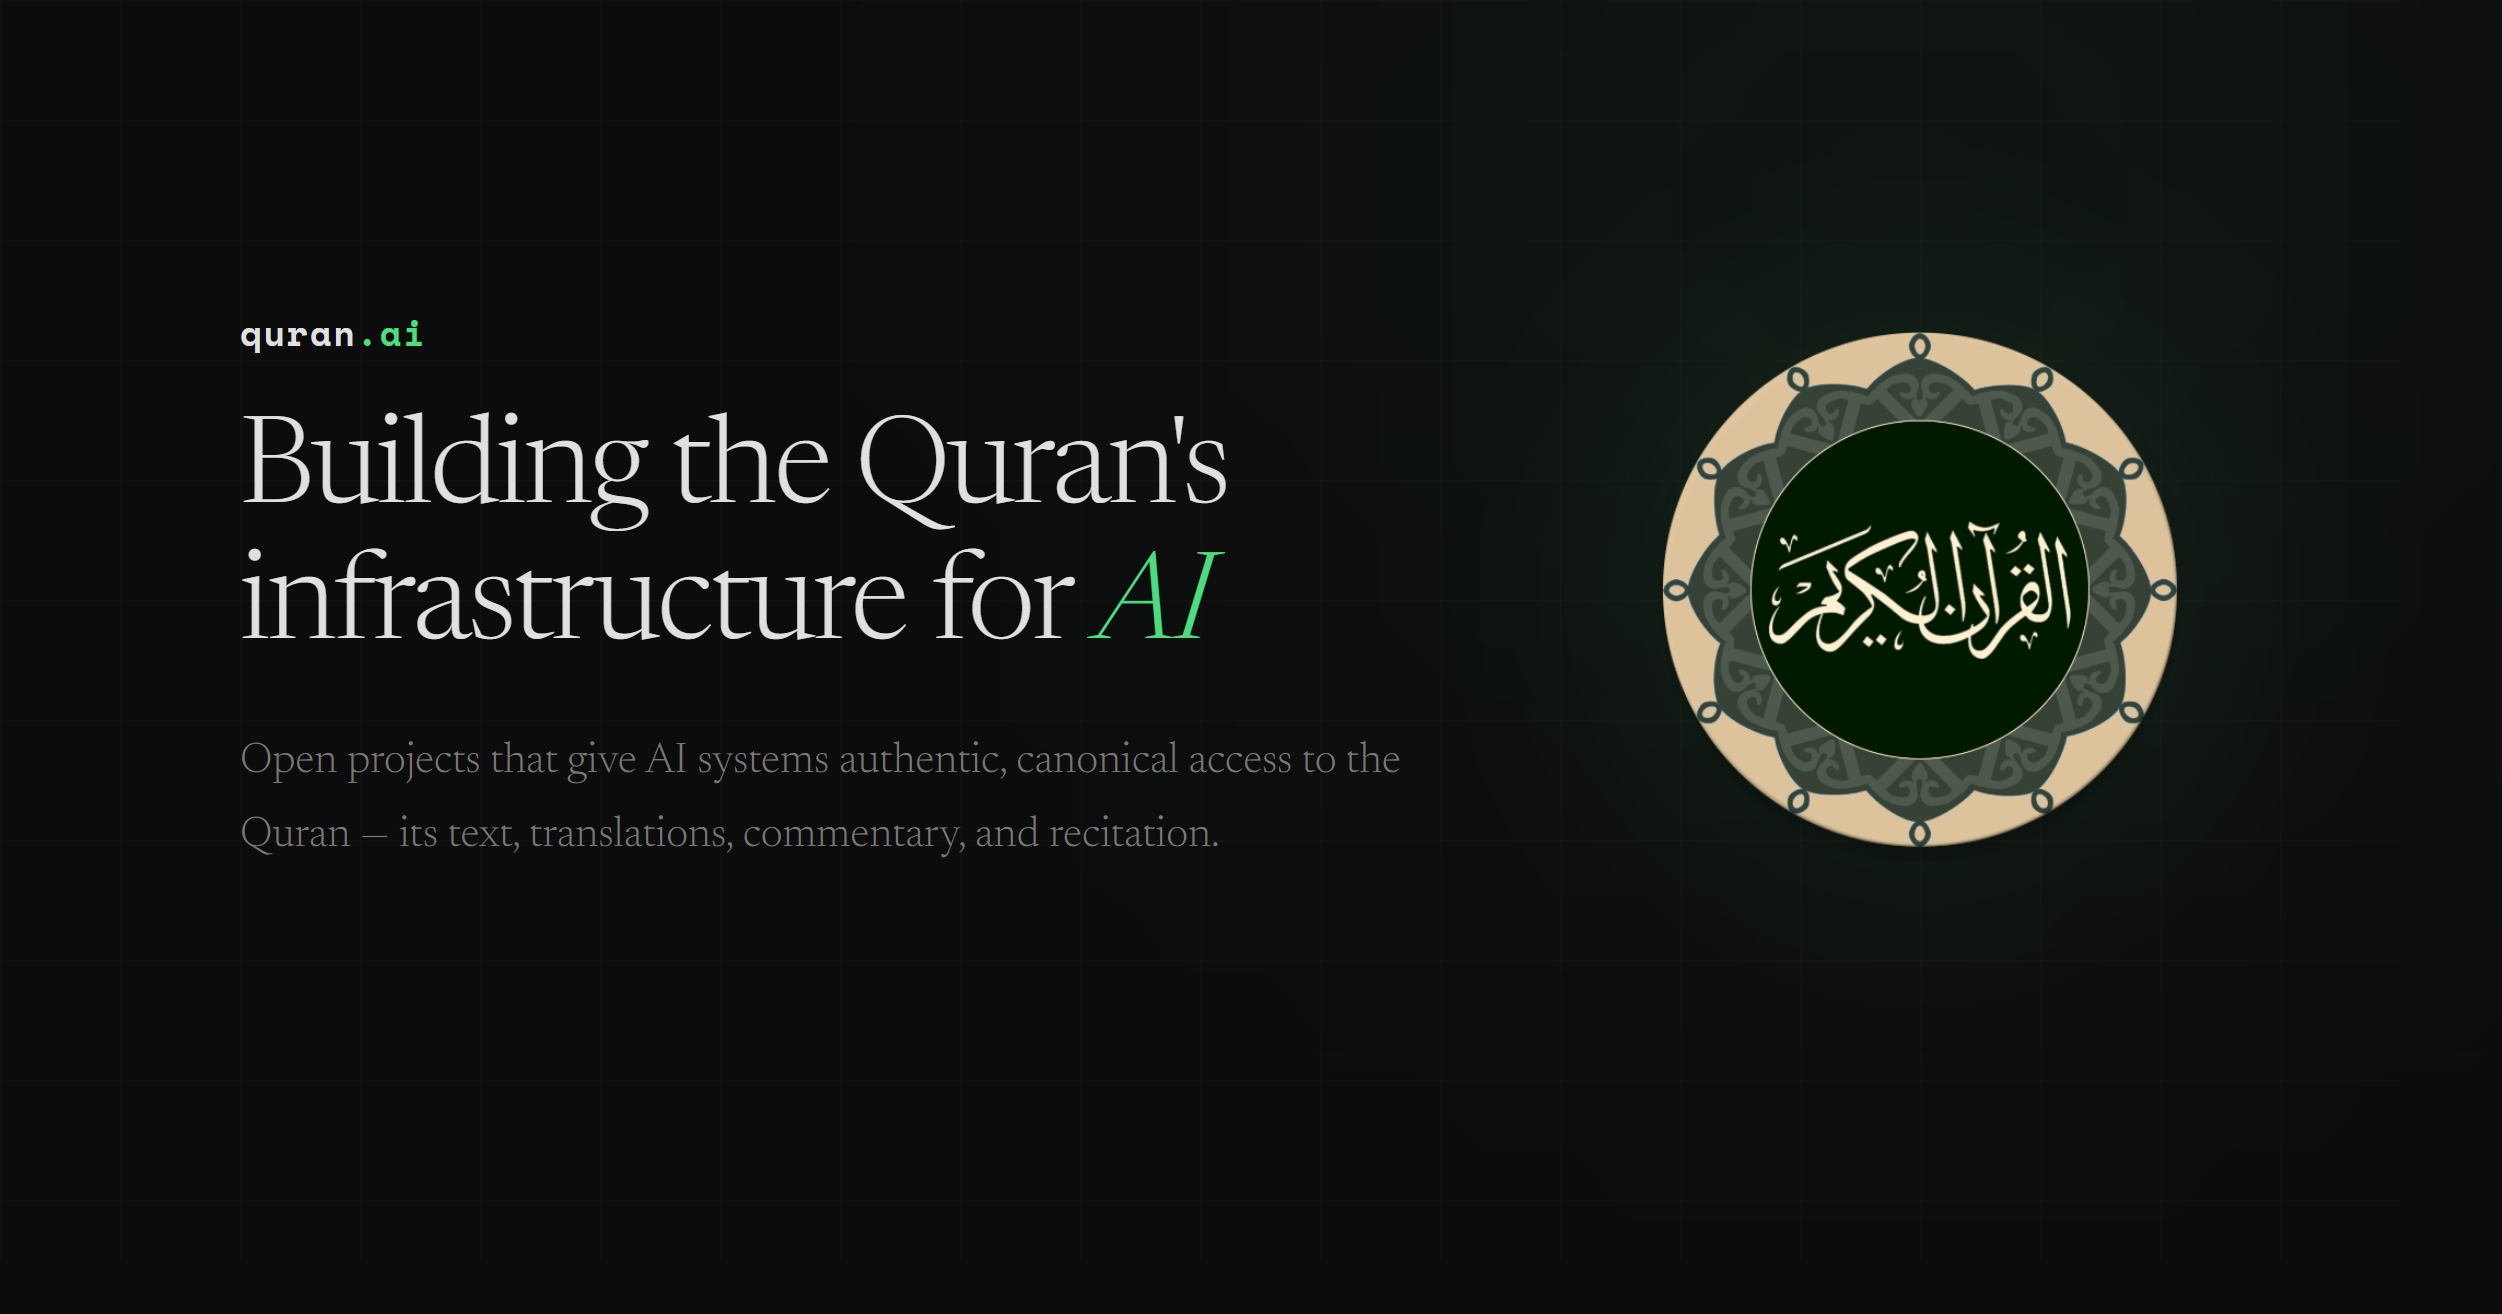
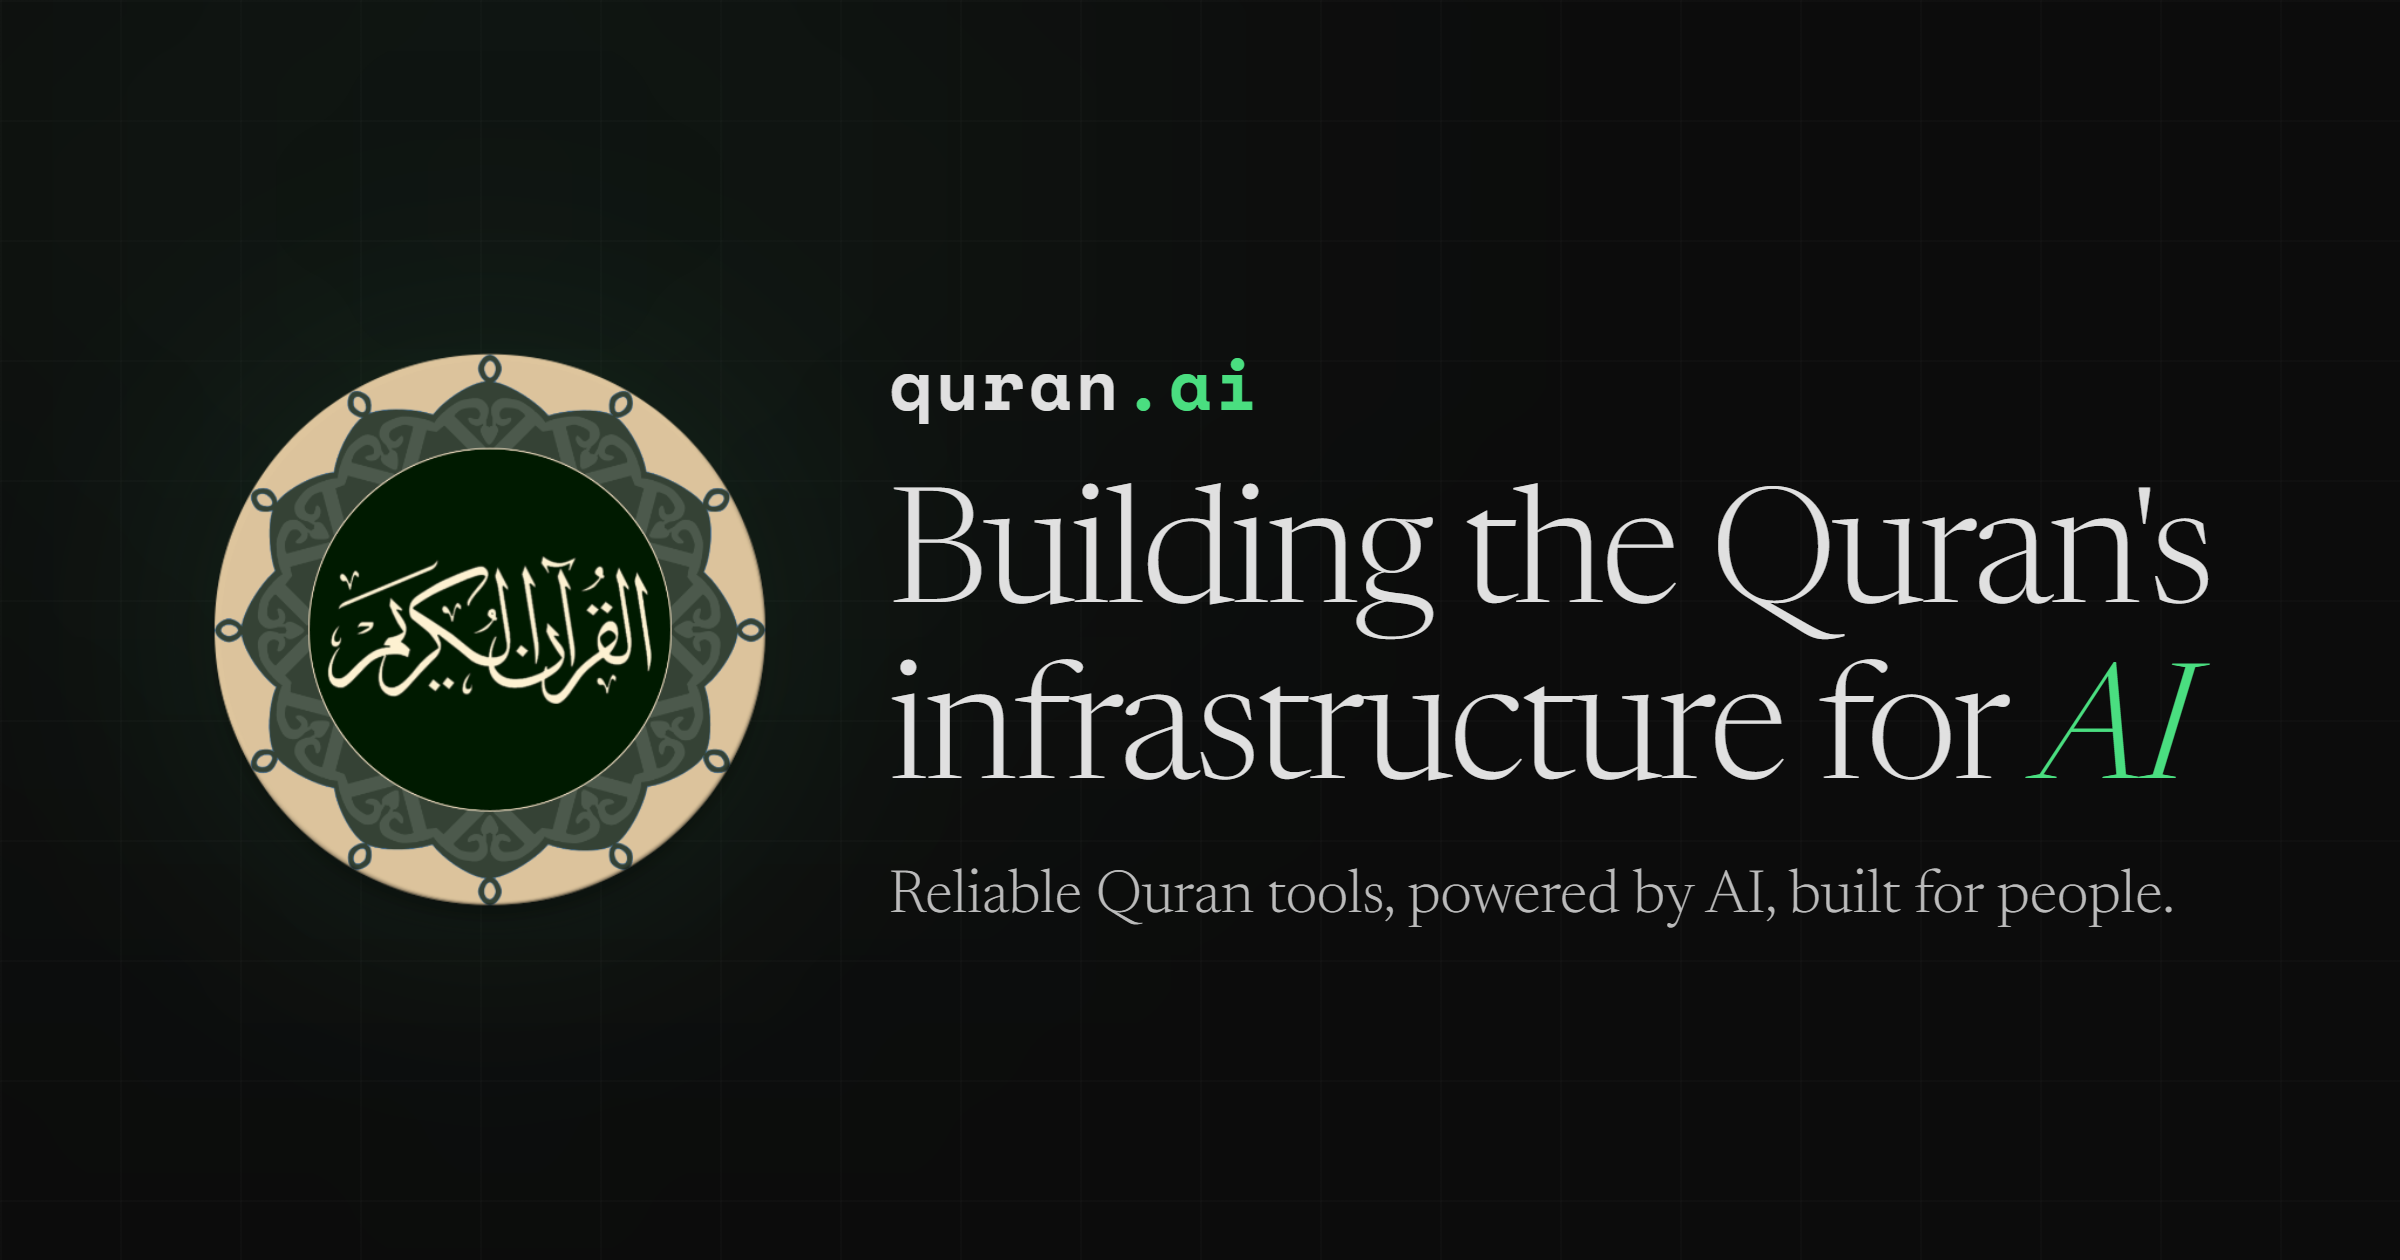
Update OG preview image — bolder layout, cleaner copy

Changed region(s): [[0.0625, 0.2476, 0.9375, 0.7429], [0.4688, 0.681, 0.9062, 0.7429], [0.375, 0.681, 0.4375, 0.7429]]

diff --git a/og-image.html b/og-image.html
@@ -22,14 +22,13 @@
     top: 0;
     left: 0;
     display: flex;
-    flex-direction: row-reverse;
+    flex-direction: row;
     align-items: center;
     justify-content: center;
-    gap: 80px;
-    padding: 0 80px 40px 100px;
+    gap: 50px;
+    padding: 0;
   }
 
-  /* Grid background */
   .card::before {
     content: '';
     position: absolute;
@@ -41,13 +40,12 @@
     pointer-events: none;
   }
 
-  /* Green glow */
   .glow {
     position: absolute;
     width: 600px;
     height: 600px;
     top: -200px;
-    right: -50px;
+    left: -50px;
     background: rgba(74, 222, 128, 0.05);
     border-radius: 50%;
     filter: blur(150px);
@@ -56,8 +54,8 @@
 
   .icon {
     flex-shrink: 0;
-    width: 280px;
-    height: 280px;
+    width: 300px;
+    height: 300px;
     border-radius: 50%;
     object-fit: cover;
     filter: drop-shadow(0 0 60px rgba(74, 222, 128, 0.1));
@@ -68,11 +66,11 @@
     z-index: 1;
     display: flex;
     flex-direction: column;
-    gap: 24px;
+    gap: 20px;
   }
 
   .logo {
-    font-size: 1.1rem;
+    font-size: 2.2rem;
     font-weight: 700;
     letter-spacing: 0.05em;
     color: #e0e0e0;
@@ -82,8 +80,8 @@
   .title {
     font-family: 'Newsreader', serif;
     font-weight: 300;
-    font-size: 3.8rem;
-    line-height: 1.12;
+    font-size: 5rem;
+    line-height: 1.1;
     letter-spacing: -0.02em;
   }
   .title em {
@@ -94,10 +92,9 @@
   .sub {
     font-family: 'Newsreader', serif;
     font-weight: 300;
-    font-size: 1.35rem;
-    color: #777;
-    line-height: 1.7;
-    max-width: 620px;
+    font-size: 1.9rem;
+    color: #bbb;
+    white-space: nowrap;
   }
 </style>
 </head>
@@ -108,7 +105,7 @@
     <div class="text">
       <div class="logo">quran<span class="ai">.ai</span></div>
       <h1 class="title">Building the Quran's<br>infrastructure for <em>AI</em></h1>
-      <p class="sub">Open projects that give AI systems authentic, canonical access to the Quran — its text, translations, commentary, and recitation.</p>
+      <p class="sub">Reliable Quran tools, powered by AI, built for people.</p>
     </div>
   </div>
 </body>
